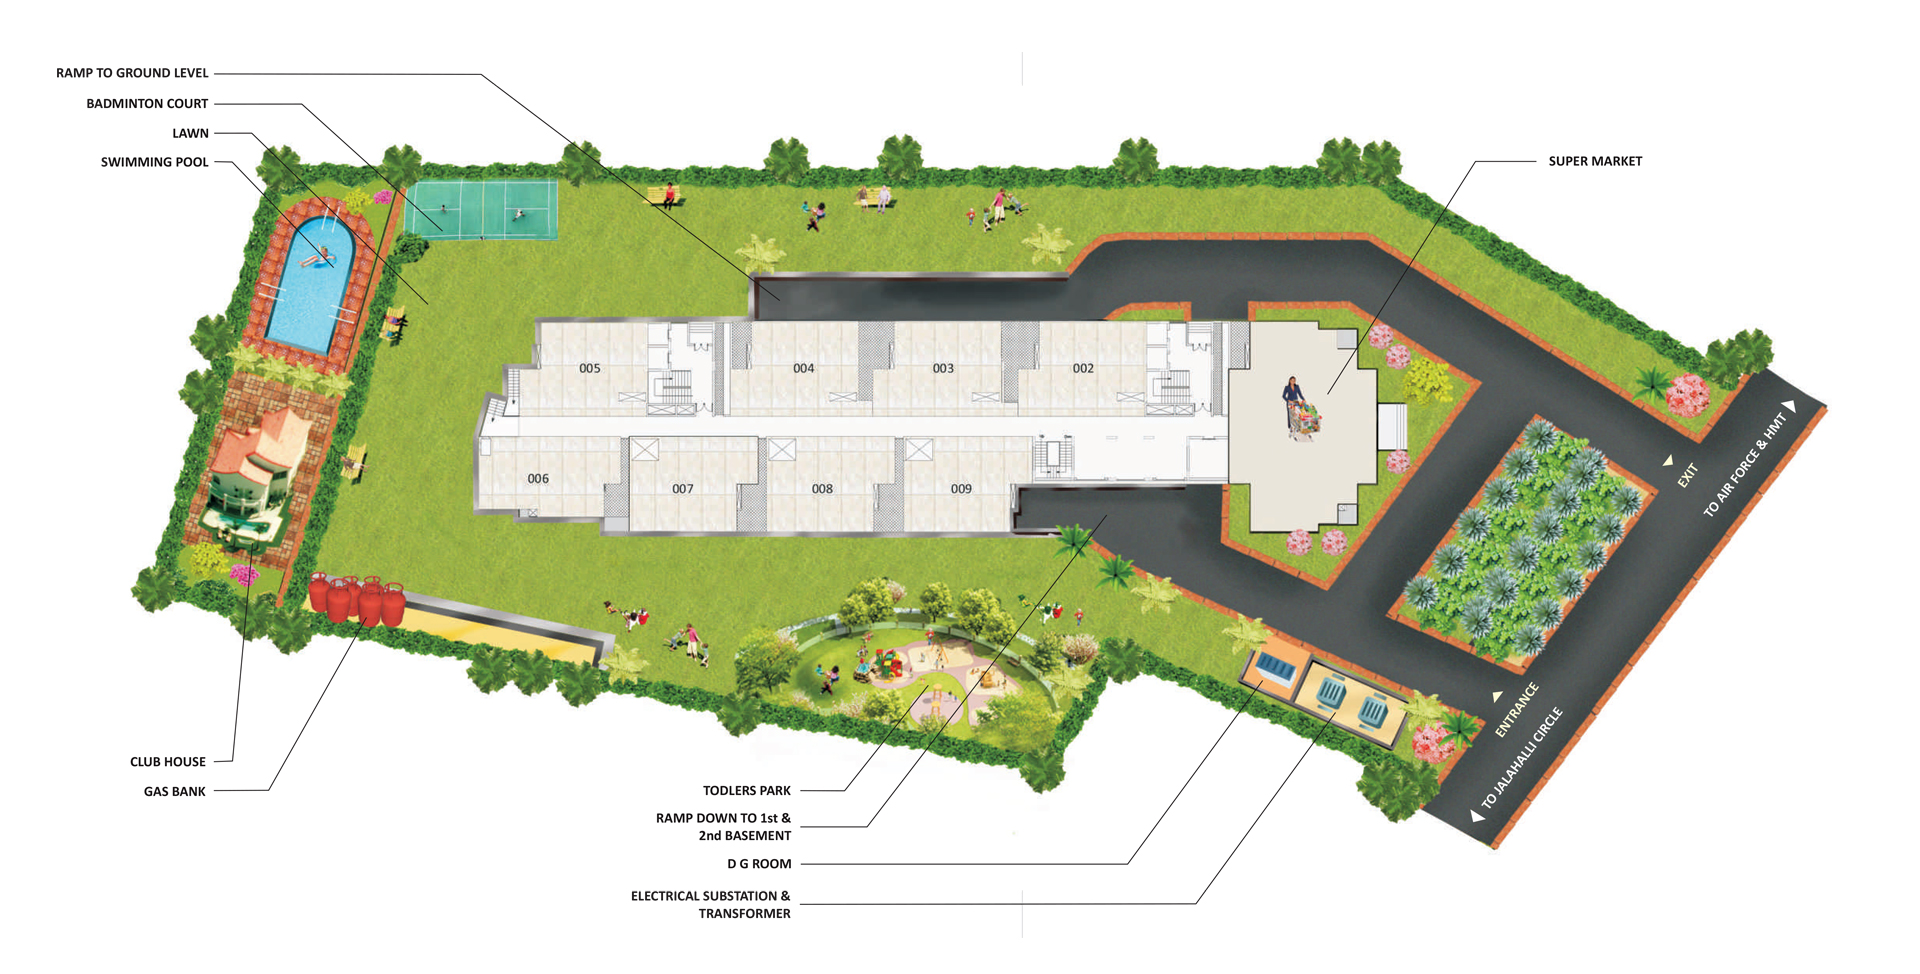
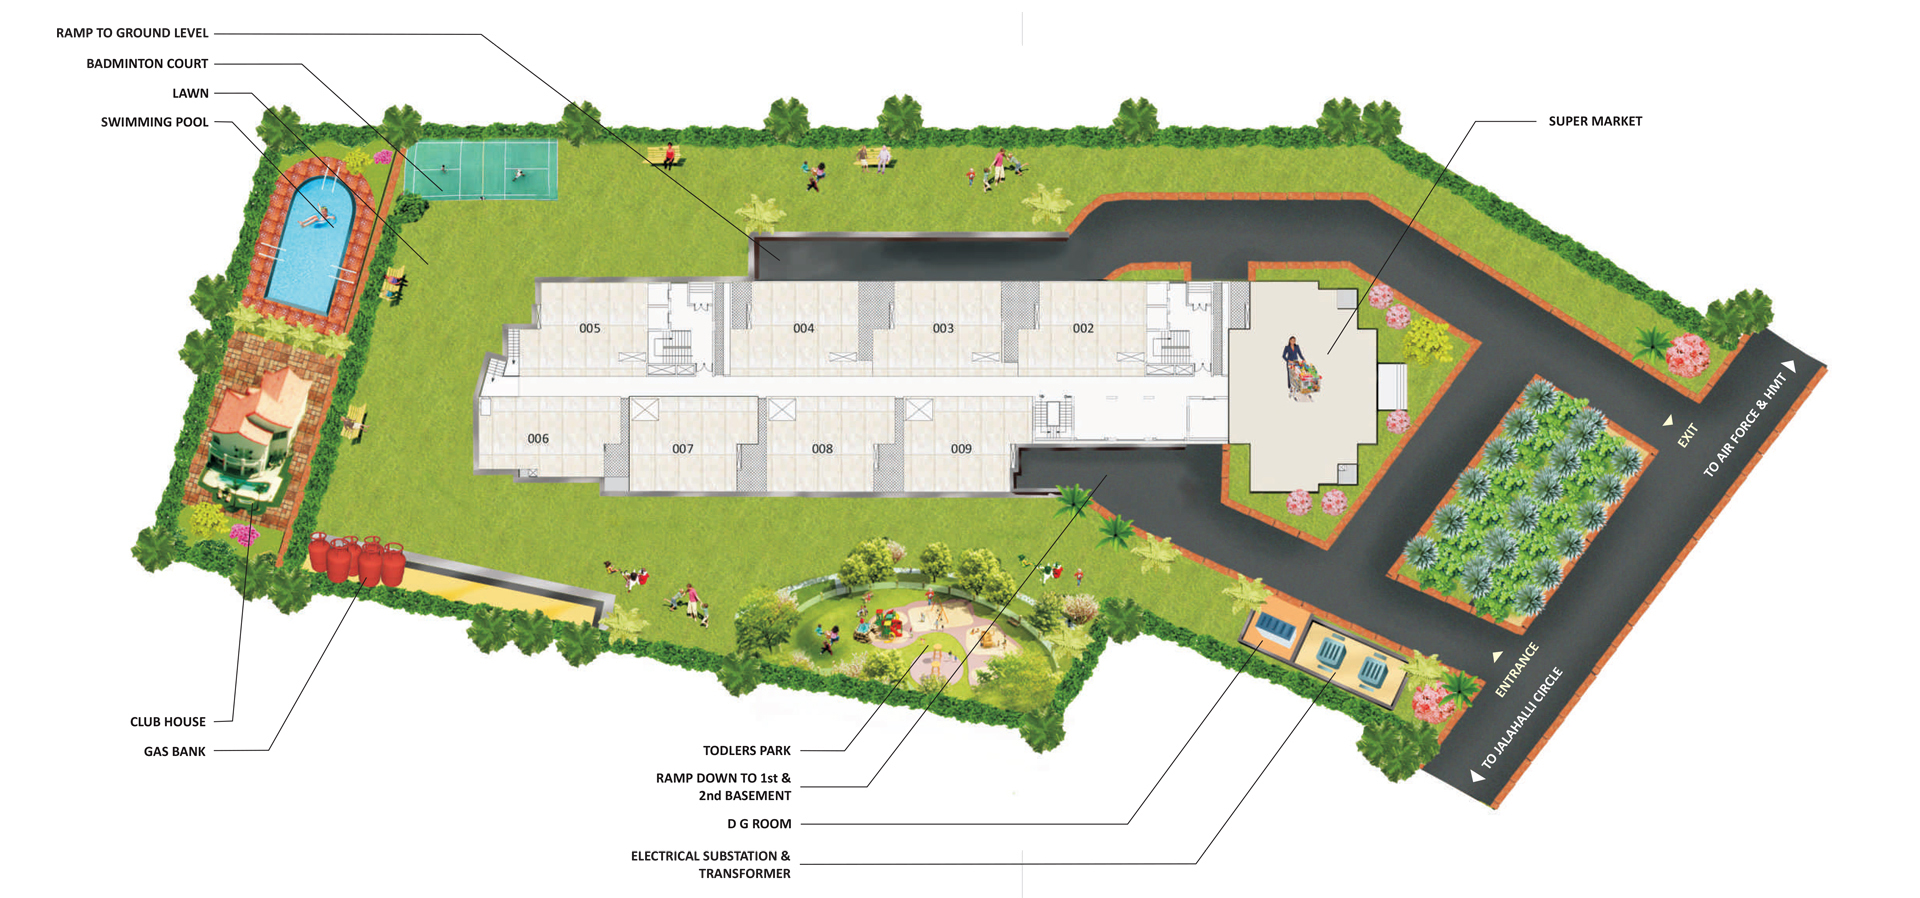
minor update

diff --git a/pratham-casa-serene/index.html b/pratham-casa-serene/index.html
@@ -1497,7 +1497,7 @@
                         <div class="col-md-12 col-lg-12">
                             <!--	Start Title
 		    				================================-->
-                            <div class="main_title pb_60">
+                            <div class="main_title ">
                                 <h2 class="title color_primary text-uppercase text-center">Master Plan</h2>
 								<p class="mt_15 text-center color_primary">Get an aerial view of Casa Serene to have an idea on how the whole building layout is and how the space will be utilised. </p>
 
@@ -1511,7 +1511,7 @@
                             <div class="price_table">
                                 <div class="row">
                                     <div class="col-md-12 col-lg-12">
-                                        <div class="table text-center">
+                                        <div class="table text-center mt_15">
 											<a href="images/layout.jpg" data-fancybox="gallery">
 												<img src="images/layout.jpg" class="img-fluid">
 											</a>
@@ -1537,14 +1537,14 @@
                         <div class="col-md-12 col-lg-12">
                             <!--	Start Title
 		    				================================-->
-                            <div class="main_title pb_30">
+                            <div class="main_title ">
                                 <h2 class="title color_primary text-uppercase text-center">Location Map</h2>
 								<p class="mt_15 text-center color_primary">Casa Serene is strategically located at Jalahalli, North West quadrant of Bangalore. From here, enjoy enhanced connectivity and accessibility to the prime centres of the city. </p>
                             </div>
                             <!--	End Title
 		    				================================-->
                         </div>
-						<div class="col-md-12 col-lg-12">
+						<div class="col-md-12 col-lg-12 mt_60">
 							<div class="table text-center">
 								<a href="images/location.jpg" data-fancybox="gallery">
 									<img src="images/location.jpg" class="img-fluid">
@@ -1617,7 +1617,7 @@
 		    				<!--	Start Title
 		    				================================-->
 		    				<div class="main_title pb_30">
-								<h2 class="title color_primary text-uppercase text-center color_white">Contact</h2>
+								<h2 class="title color_primary text-uppercase text-center color_white">Contact Us</h2>
 								<p class="mt_15 text-center color_white">Should you wish to know more about the project, please free to leave your comments. We will get back to you and arrange for a site visit on request.</p>
                             </div>
 							<!--	End Title
@@ -1631,12 +1631,11 @@
 								<li>
 									<div class="contact_text">
 										<h6 class="font-weight-bold color_default">Address</h6>
-										<span class="color_white">  Corporate Office,
+										<span class="color_white">  Site Location,
 											<br />
-											Off K G Road,
-											Opp Menaka Theater,
-											<br />
-											Bengaluru,Karnataka - 560 009</span>
+											SM Rd, Prashanth Nagar, Peenya, <br/>
+											 Bengaluru,Karnataka 560057 
+											</span>
 									</div>
 								</li>
 							
@@ -1664,7 +1663,10 @@
 							</ul>
 						</div>-->
 					</div>
-					<div class="col-md-8 col-lg-8">
+					<div class="col-md-4 col-lg-4">
+						<iframe src="https://www.google.com/maps/embed?pb=!1m14!1m8!1m3!1d3887.976910497626!2d77.57735039723289!3d12.973328575062375!3m2!1i1024!2i768!4f13.1!3m3!1m2!1s0x0%3A0x2a70d35330e1dabb!2sPrathamm%20Developers!5e0!3m2!1sen!2sin!4v1581743452672!5m2!1sen!2sin" width="100%" height="360" frameborder="0" style="border:0;" allowfullscreen=""></iframe>
+					</div>
+					<div class="col-md-4 col-lg-4">
 					
 					<form id="ccon" method="post" role="form" class="contactForm">
 						<div id='contacterrormessage'></div>
@@ -2141,21 +2143,11 @@
 							</div>
 						</form>
 					</div>
-		    		</div>
+					</div>
+					<div class="copyright2 p_20 color_lightgray bg_brown text-center footerp"><p>Pratham Construction @ 2020. All Right Reserved.| Digital partner <a href="https://www.imsolutions.co/" target="_blank" style='color: #ffb32f;'>IM Solutions</a></p></div>
 	    		</div>
 	    	</div>
-	    	<div class="footer pt_30 background6">
-	    		<div class="container">
-	    			<div class="footer_bottom pb_30">
-	    				<div class="row">
-		    				<div class="col-md-12 col-lg-12">
-								<a href='https://www.google.com/maps/embed?pb=!1m18!1m12!1m3!1d3886.9028135538197!2d77.51693491525049!3d13.041857790809814!2m3!1f0!2f0!3f0!3m2!1i1024!2i768!4f13.1!3m3!1m2!1s0x3bae3d27cd3cc213%3A0xa4fd2c5a2ae17aef!2sPratham%20Casa%20Serene%2C%20SM%20Rd%2C%20Prashanth%20Nagar%2C%20Peenya%2C%20Bengaluru%2C%20Karnataka%20560057!5e0!3m2!1sen!2sin!4v1581574735343!5m2!1sen!2sin' target='_blank' ><img src="images/google-map.png" class="img-fluid"></a>
-		    				</div>
-		    			</div>
-	    			</div>
-	    		</div>
-	    		<div class="copyright2 p_20 color_lightgray bg_brown text-center footerp"><p>Pratham Construction @ 2020. All Right Reserved.| Digital partner <a href="https://www.imsolutions.co/" target="_blank" style='color: #ffb32f;'>IM Solutions</a></p></div>
-	    	</div>
+	    	
 	    </div>
 		<!--	End Contact
 		===================================================-->

diff --git a/css/custom.css b/css/custom.css
@@ -135,14 +135,14 @@ input[type=number]::-webkit-outer-spin-button {
   min-height: 376px;}
 @media screen and (max-width:990px) and (min-width:280px) {
 
-  .details { background: rgba(33, 37, 41, 0.9) ;margin-top:-30px}
+  .details { background: rgba(33, 37, 41, 0.9) ;margin-top:-30px;padding-bottom: 5px;}
   .about-btn {margin-bottom: 20px;}
   .btn.btn-default.testb {margin-bottom: 30px ;}
 
 }
 
 @media screen and (min-width:991px) and (max-width:1980px) {
-  .details { background: rgba(33, 37, 41, 0.9)  ;}
+  .details { background: rgba(33, 37, 41, 0.9)  ; padding-bottom: 5px}
 }
 .why-us-sl-img {width:35% !important;text-align: center !important;margin-left: auto !important;margin-right: auto !important;}
 @media screen and (max-width:990px) and (min-width:280px) {

diff --git a/indraprastha.php b/indraprastha.php
@@ -837,7 +837,7 @@
 						<div class="col-md-12 col-lg-12">
 							<!--	Start Title
 		    				================================-->
-							<div class="main_title pb_60">
+							<div class="main_title ">
 								<h2 class="title color_primary text-center">Walkthrough</h2>
 								<p class="mt_15 text-center">Get a glimpse of the luxury that awaits you!</p>
 							</div>
@@ -882,7 +882,7 @@
 
 					<!-- main slider -->
 
-					<div class="thumb-sl  ">
+					<div class="thumb-sl  mt_15">
 						<div class="row align-items-center">
 							<div class="col-lg-12 " id="slider">
 								<div id="myCarousel" class="carousel slide shadow">
@@ -1486,7 +1486,7 @@
 						<div class="col-md-12 col-lg-12">
 							<!--	Start Title
 		    				================================-->
-							<div class="main_title pb_60">
+							<div class="main_title ">
 								<h2 class="title color_primary  text-center">Master Plan</h2>
 								<p class="mt_15  text-center">
 									<p class="mt_15  text-center">The master plan of Indraprastha is an aerial view of the project on its completion. It offers a clear picture of how the whole space is going to be utilised.  </p>
@@ -1501,7 +1501,7 @@
 							<div class="price_table">
 								<div class="row">
 									<div class="col-md-12 col-lg-12">
-										<div class="table text-center">
+										<div class="table text-center mt_15">
 											<a href="images/pratham/indraprastha/5-1.jpg" class="desktop" data-fancybox="gallery">
 												<img src="images/pratham/indraprastha/5-1.jpg" class="img-fluid">
 
@@ -1534,7 +1534,7 @@
 						<div class="col-md-12 col-lg-12">
 							<!--	Start Title
 		    				================================-->
-							<div class="main_title pb_60">
+							<div class="main_title ">
 								<h2 class="title color_primary  text-center">Location Map</h2>
 								<p class="mt_15  text-center">Conveniently placed in the heart of Yashwanthpur, enjoy enhanced connectivity and accessibility to the prime centres of the city from Indraprastha. </p>
 							</div>
@@ -1547,7 +1547,7 @@
 							<div class="price_table">
 								<div class="row">
 									<div class="col-md-12 col-lg-12">
-										<div class="table text-center">
+										<div class="table text-center mt_15">
 											<a href="images/pratham/indraprastha/indraprastha.png" class="desktop" data-fancybox="gallery">
 												<img src="images/pratham/indraprastha/indraprastha.png" class="img-fluid">
 											</a>

diff --git a/includes/footer2.php b/includes/footer2.php
@@ -1,13 +1,13 @@
 <!--Start Contact ===================================================-->
-<div id="contact" class="section background60 pp-scrollable">
+<div id="contact" class="section background60 pp-scrollable ">
 	    	<div class="container">
 	    		<div class="contact ">
 	    			<div class="row">
 		    			<div class="col-md-12 col-lg-12">
 		    				<!--	Start Title
 		    				================================-->
-		    				<div class="main_title pb_60">
-								<h2 class="title color_primary text-uppercase text-center color_white">Contact</h2>
+		    				<div class="main_title pb_60 mt_60">
+								<h2 class="title color_primary text-uppercase text-center color_white">Contact Us</h2>
 								<p class="mt_15 text-center color_white">Should you wish to know more about the project, please free to leave your comments. We will get back to you and arrange for a site visit on request. </p>
                             </div>
 							<!--	End Title
@@ -23,10 +23,9 @@
 										<h6 class="font-weight-bold color_default">Address</h6>
 										<span class="color_white">  Corporate Office,
 											<br />
-											Off K G Road,
-											Opp Menaka Theater,
-											<br />
-											Bengaluru,Karnataka - 560 009</span>
+											Ullas Theatre, 49/4, <br/>
+											 R K Road (previously known as MEC Batteries Road),<br/>
+											  Mahalaxmipuram Ward Near,<br/> Bengaluru, Karnataka 560022</span>
 									</div>
 								</li>
 							

diff --git a/index.php b/index.php
@@ -984,7 +984,7 @@ include 'includes/header.php';
 					<p class="sub_title">Pratham Construction is a pioneer in delivering world-class
 						residential spaces. We have pioneered many landmark
 						developments across cities in Gujarat, Karnataka, Maharashtra and many other Indian states. In Bangalore, our flagship
-						programs are Casa Seren and Indraprastha.</p>
+						programs are Casa Serene and Indraprastha.</p>
 
 				</div>
 
@@ -1278,7 +1278,7 @@ include 'includes/header.php';
 
 									<a class="color_primary" href="blog-details.html">
 
-										<h4>How Pratham Constructions is redefining quality housing in the Bangalore realty</h4>
+										<h5>How Pratham Constructions is redefining quality housing in the Bangalore realty</h5>
 
 									</a>
 
